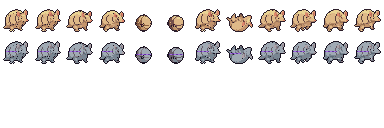
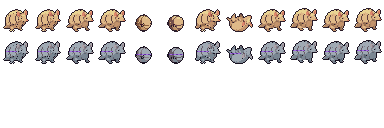
v0.6.3 준비: 콩이 걷기 다시 만듦 — 몸은 한 칸, 발만 딛는다(0241)
- step_cycle을 sprite_ai.py로 옮김(Naïl·콩이 같이 씀, Naïl 시트는 점 하나까지 그대로)
- kongi_ai.py: 걷기 네 칸·두 칸을 걷기 첫 칸의 step_cycle로. 원본 네 칸은 등딱지·머리·눈이 칸마다 달라 꿈틀거렸다
- Cargo 0.6.3, version_code 67, docs/releases/v0.6.3.md, 0241 콩이 절, 홈페이지 소식·스프라이트

Claude-Session: https://claude.ai/code/session_01VNXEyeHwdhsn4oiHYXtNpM

diff --git a/site/index.html b/site/index.html
@@ -66,7 +66,7 @@
           <a class="btn alt" data-pc="linux" href="https://github.com/AimenJoe/nail-under-the-roots/releases/latest/download/nail-linux-release.tar.gz">Linux</a>
         </div>
       </div>
-      <p class="meta">무료 · 설치 없이 · 키보드 · 게임패드 · 터치 · 최신 <b data-latest-version>v0.6.2</b> (<span data-latest-date>2026-10-29</span>)</p>
+      <p class="meta">무료 · 설치 없이 · 키보드 · 게임패드 · 터치 · 최신 <b data-latest-version>v0.6.3</b> (<span data-latest-date>2026-10-29</span>)</p>
     </div>
     <a class="scroll-hint" href="#story">땅속으로 ▼</a>
   </section>
@@ -383,6 +383,7 @@
     <div class="wrap">
       <header class="head"><p class="tag">소식</p><h2>업데이트</h2></header>
       <ul class="news" data-news>
+        <li><span class="v">v0.6.3</span><span class="d">2026-10-29</span><a href="https://github.com/AimenJoe/nail-under-the-roots/releases/tag/v0.6.3">콩이 걷기 다시 만듦(발을 번갈아 딛는다)</a></li>
         <li><span class="v">v0.6.2</span><span class="d">2026-10-29</span><a href="https://github.com/AimenJoe/nail-under-the-roots/releases/tag/v0.6.2">Naïl 걸음 방향 고침(뒷걸음처럼 보이던 것)</a></li>
         <li><span class="v">v0.6.1</span><span class="d">2026-10-29</span><a href="https://github.com/AimenJoe/nail-under-the-roots/releases/tag/v0.6.1">Naïl 걷기 다시 만듦(발을 번갈아 딛는다)</a></li>
         <li><span class="v">v0.6.0</span><span class="d">2026-10-29</span><a href="https://github.com/AimenJoe/nail-under-the-roots/releases/tag/v0.6.0">PC 판(Windows·macOS·Linux), Naïl·콩이·큰 나무 다시 그림</a></li>
@@ -401,6 +402,6 @@
     <p>대화 초상화·컷씬 일러스트·타이틀 바탕은 Google Gemini 이미지 모델(나노바나나)로 그린 원본을 도트로 옮긴 것이다(SynthID 워터마크 포함). 캐릭터·적·소품·마을 물건 스프라이트도 같은 방식으로 받은 원본을 게임 칸으로 옮긴 것이다. 싸움 칸의 클립은 받는 피해만 끈 시험 빌드를 가짜 시계로 한 칸씩 찍은 것이다(소리 없음). 환경 그림: <a href="https://danieldiggle.itch.io/sunnyside">Sunnyside World</a> by danieldiggle. 음악: Cleyton Kauffman · fluffclipse · Kistol · Aureolus_Omicron · Yoiyami · KarateStudios · Juhani Junkala · mutantleg · Umplix · RandomMind · Écrivain, 효과음·환경음: Kenney · Juhani Junkala · artisticdude · Bobjt · themightyglider · qubodup · syncopika · cinameng(모두 CC0). 글꼴: <a href="https://github.com/quiple/galmuri">Galmuri</a> · Ark Pixel · 俐方體11號(SIL OFL 1.1). <a href="https://github.com/AimenJoe/nail-under-the-roots/blob/main/assets/LICENSES.md">출처 전체</a></p>
   </div>
 </footer>
-<script src="site.js?v=bdad418f" defer></script>
+<script src="site.js?v=7230a50f" defer></script>
 </body>
 </html>

diff --git a/site/en/index.html b/site/en/index.html
@@ -65,7 +65,7 @@
           <a class="btn alt" data-pc="linux" href="https://github.com/AimenJoe/nail-under-the-roots/releases/latest/download/nail-linux-release.tar.gz">Linux</a>
         </div>
       </div>
-      <p class="meta">Free · No install · Keyboard · Gamepad · Touch · Latest <b data-latest-version>v0.6.2</b> (<span data-latest-date>2026-10-29</span>)</p>
+      <p class="meta">Free · No install · Keyboard · Gamepad · Touch · Latest <b data-latest-version>v0.6.3</b> (<span data-latest-date>2026-10-29</span>)</p>
     </div>
     <a class="scroll-hint" href="#story">Dig down ▼</a>
   </section>
@@ -382,6 +382,7 @@
     <div class="wrap">
       <header class="head"><p class="tag">News</p><h2>Updates</h2></header>
       <ul class="news" data-news>
+        <li><span class="v">v0.6.3</span><span class="d">2026-10-29</span><a href="https://github.com/AimenJoe/nail-under-the-roots/releases/tag/v0.6.3">Kongi's walk reworked (feet step in turn)</a></li>
         <li><span class="v">v0.6.2</span><span class="d">2026-10-29</span><a href="https://github.com/AimenJoe/nail-under-the-roots/releases/tag/v0.6.2">Naïl no longer moonwalks (walk direction fixed)</a></li>
         <li><span class="v">v0.6.1</span><span class="d">2026-10-29</span><a href="https://github.com/AimenJoe/nail-under-the-roots/releases/tag/v0.6.1">Naïl's walk reworked (his feet now step in turn)</a></li>
         <li><span class="v">v0.6.0</span><span class="d">2026-10-29</span><a href="https://github.com/AimenJoe/nail-under-the-roots/releases/tag/v0.6.0">PC builds (Windows, macOS, Linux), Naïl, Kongi and the Great Tree redrawn</a></li>
@@ -400,6 +401,6 @@
     <p>Dialogue portraits, story illustrations and the title background were drawn with Google's Gemini image model (Nano Banana) and redrawn as pixel art (they carry a SynthID watermark). Character, enemy, prop and village sprites were made the same way and fitted into game cells. The clip in the fight section was captured frame by frame on a fake clock from a test build with incoming damage turned off (no sound). Environment art: <a href="https://danieldiggle.itch.io/sunnyside">Sunnyside World</a> by danieldiggle. Music: Cleyton Kauffman · fluffclipse · Kistol · Aureolus_Omicron · Yoiyami · KarateStudios · Juhani Junkala · mutantleg · Umplix · RandomMind · Écrivain; sound effects and ambience: Kenney · Juhani Junkala · artisticdude · Bobjt · themightyglider · qubodup · syncopika · cinameng (all CC0). Fonts: <a href="https://github.com/quiple/galmuri">Galmuri</a> · Ark Pixel · Cubic 11 (SIL OFL 1.1). <a href="https://github.com/AimenJoe/nail-under-the-roots/blob/main/assets/LICENSES.md">All sources</a></p>
   </div>
 </footer>
-<script src="../site.js?v=bdad418f" defer></script>
+<script src="../site.js?v=7230a50f" defer></script>
 </body>
 </html>

diff --git a/site/site.js b/site/site.js
@@ -113,7 +113,7 @@
   // 첫 화면 아래 걷는 띠(0228 덧붙임): 들를 때마다 이웃 몇이 무작위로 나와 건너가고, 하나가 나가면 다른 이가 들어온다.
   // 칸 크기(c)의 2배로 그린다. f = 한 칸 시간, d = 건너는 시간(도토는 달리고 모모는 깡충, 보리·수수는 느릿느릿).
   const box = document.querySelector("[data-parade]");
-  const SPRITE_V = "53a5a591";   // make_images.py가 sp_*.png 판의 해시를 적는다(캐시 깨기)
+  const SPRITE_V = "c5eb5783";   // make_images.py가 sp_*.png 판의 해시를 적는다(캐시 깨기)
   if (!box || matchMedia("(prefers-reduced-motion: reduce)").matches) return;
   const CAST = [
     { k: "nail", n: 4, c: 28, f: 0.16, d: 26 },

diff --git a/tools/art/nail_ai.py b/tools/art/nail_ai.py
@@ -21,7 +21,7 @@ from PIL import Image
 HERE = Path(__file__).resolve().parent
 sys.path.insert(0, str(HERE))
 import nail as legacy  # noqa: E402  흙더미·그림자 16칸 그림과 털빛 표(FURS)를 같이 쓴다
-from sprite_ai import Source, Spec, convert, is_fur, seat, seat_on_fur  # noqa: E402
+from sprite_ai import Source, Spec, convert, is_fur, seat, seat_on_fur, step_cycle  # noqa: E402
 
 SPRITES = HERE / "sources" / "ai" / "sprites"
 CELL = 28          # 몸 키 약 22px + 뻗은 발톱(0238: 18px는 모모 23·도토 25보다 작아 주인공이 가장 작았다)
@@ -41,7 +41,7 @@ SPEC = Spec(
                 "idle_a": (7, 52, 276, 330),
                 "hurt": (522, 65, 739, 326),
                 "dead": (738, 166, 1001, 331),
-                "walk_a": (20, 413, 238, 686),   # 걷기는 이 한 칸에서 `walk_cycle`로 네 칸(0241)
+                "walk_a": (20, 413, 238, 686),   # 걷기는 이 한 칸에서 `sprite_ai.step_cycle`로 네 칸(0241)
             },
             # 배율은 서 있는 키(머리~발)로: 서기·맞음·쓰러짐은 서기 A, 걷기는 걷기 A(줄마다 그려 온 크기가 조금씩 다르다).
             groups={"idle_a": "idle_a", "hurt": "idle_a", "dead": "idle_a",
@@ -88,60 +88,12 @@ def small(grid_text):
     return cell
 
 
-def walk_cycle(base):
-    """걷기 네 칸을 한 칸(걷기 A)에서 만든다(0241): 디딤 → 지나감(몸 1px 위, 뒷발 듦) → 반대 디딤 → 지나감(앞발 듦).
-
-    원본의 걷기 네 칸은 발이 거의 그대로이고 앞발(손) 자리만 칸마다 튀며 몸이 1~2px 옆으로 흔들려, 22px에서는
-    "미끄러지며 배에 얼룩이 깜박이는" 걸음이 됐다(사장 "걷는 게 어색하다"). 몸은 한 그림 그대로 두고 발만 딛게 한다.
-    발 = 몸 아래 줄(`FOOT` - 1부터)의 덩어리 둘, 왼쪽이 뒷발(오른쪽을 보는 그림).
-    """
-    split = FOOT - 1
-    on = base[..., 3] > 0
-    cols = np.nonzero(on[split:].any(axis=0))[0]
-    gaps = [x for x in range(cols.min(), cols.max()) if not on[split:, x].any()]
-    mid = gaps[len(gaps) // 2] if gaps else (cols.min() + cols.max()) // 2
-    body = base.copy()
-    body[split:] = 0
-    feet = {"back": base.copy(), "front": base.copy()}
-    feet["back"][:split] = 0
-    feet["back"][:, mid:] = 0
-    feet["front"][:split] = 0
-    feet["front"][:, :mid] = 0
-
-    def put(cell, foot, dx=0, dy=0, behind=False):
-        f = np.roll(np.roll(foot, dx, axis=1), dy, axis=0)
-        m = f[..., 3] > 0
-        if behind:
-            m &= cell[..., 3] == 0
-        cell[m] = f[m]
-
-    def frame(bob, back, front):
-        cell = np.zeros_like(base)
-        up = body.copy()
-        if bob:
-            # 배 줄(외곽선 위 둘째 줄)까지 위로 올리고 그 줄을 한 번 더 — 몸이 늘어나 발에 닿는다(밑 외곽선은 두 겹이 되지 않게).
-            k = split - 3
-            up[:k] = body[1:k + 1]
-        cell[...] = up
-        put(cell, feet["back"], *back, behind=True)
-        put(cell, feet["front"], *front)
-        return cell
-
-    # 든 발은 앞으로, 디딘 발은 뒤로 간다(몸 기준). 반대로 들면 뒷걸음처럼 보인다(사장 "뒤로 걷는 느낌", 0241).
-    return [
-        frame(0, (-1, 0), (1, 0)),     # 디딤: 뒷발 뒤, 앞발 앞
-        frame(1, (0, -1), (0, 0)),     # 지나감: 몸이 올라가고 뒷발을 들어 앞으로(앞발은 디딘 채 뒤로)
-        frame(0, (1, 0), (-1, 0)),     # 반대 디딤: 뒷발이 앞에 내려앉고 앞발은 뒤에
-        frame(1, (0, 0), (0, -1)),     # 지나감: 앞발을 들어 앞으로(뒷발은 디딘 채 뒤로)
-    ]
-
-
 def build():
     spr = convert(SPEC)
     idle = seat(spr["idle_a"], CELL, FOOT)
     rows = [
         [idle, seat(spr["idle_b"], CELL, FOOT)]
-        + walk_cycle(seat_on_fur(spr["walk_a"], spr["idle_a"], CELL, FOOT)),
+        + step_cycle(seat_on_fur(spr["walk_a"], spr["idle_a"], CELL, FOOT), FOOT - 1),
         # 동작 칸은 몸통 털의 가운데를 서기 칸에 맞춘다(발톱을 뻗어도 몸이 옆으로 뛰지 않게).
         [seat_on_fur(spr[k], spr["idle_a"], CELL, FOOT)
          for k in ("attack0", "attack1", "attack2", "hurt", "dead", "windup0", "windup1", "windup2", "settle")],

diff --git a/tools/art/sprite_ai.py b/tools/art/sprite_ai.py
@@ -345,6 +345,53 @@ def seat_on_fur(sprite, ref, cell, foot):
     return seat(sprite, cell, foot, dx=round(anchor - ((cell - sprite.shape[1]) // 2 + fur_cx(sprite))))
 
 
+def step_cycle(base, split):
+    """걷기 네 칸을 앉힌 칸 하나에서 만든다(0241): 디딤 → 지나감(몸 1px 위, 뒷발 듦) → 반대 디딤 → 지나감(앞발 듦).
+
+    나노바나나 걷기 네 칸은 발이 거의 그대로이고 칸마다 몸(앞발·등딱지·머리)이 조금씩 달라, 게임 크기에서는
+    미끄러지며 몸이 끓는 걸음이 됐다(사장: Naïl "걷는 게 어색하다", 콩이 "걷는 게 걸린다"). 몸은 한 그림 그대로 두고 발만 딛게 한다.
+    발 = `split` 줄부터 아래의 덩어리 둘(가운데 빈 열로 가름), 왼쪽이 뒷발(오른쪽을 보는 그림).
+    """
+    on = base[..., 3] > 0
+    cols = np.nonzero(on[split:].any(axis=0))[0]
+    gaps = [x for x in range(cols.min(), cols.max()) if not on[split:, x].any()]
+    mid = gaps[len(gaps) // 2] if gaps else (cols.min() + cols.max()) // 2
+    body = base.copy()
+    body[split:] = 0
+    feet = {"back": base.copy(), "front": base.copy()}
+    feet["back"][:split] = 0
+    feet["back"][:, mid:] = 0
+    feet["front"][:split] = 0
+    feet["front"][:, :mid] = 0
+
+    def put(cell, foot, dx=0, dy=0, behind=False):
+        f = np.roll(np.roll(foot, dx, axis=1), dy, axis=0)
+        m = f[..., 3] > 0
+        if behind:
+            m &= cell[..., 3] == 0
+        cell[m] = f[m]
+
+    def frame(bob, back, front):
+        cell = np.zeros_like(base)
+        up = body.copy()
+        if bob:
+            # 배 줄(외곽선 위 둘째 줄)까지 위로 올리고 그 줄을 한 번 더 — 몸이 늘어나 발에 닿는다(밑 외곽선은 두 겹이 되지 않게).
+            k = split - 3
+            up[:k] = body[1:k + 1]
+        cell[...] = up
+        put(cell, feet["back"], *back, behind=True)
+        put(cell, feet["front"], *front)
+        return cell
+
+    # 든 발은 앞으로, 디딘 발은 뒤로 간다(몸 기준). 반대로 들면 뒷걸음처럼 보인다(사장 "뒤로 걷는 느낌", 0241).
+    return [
+        frame(0, (-1, 0), (1, 0)),     # 디딤: 뒷발 뒤, 앞발 앞
+        frame(1, (0, -1), (0, 0)),     # 지나감: 몸이 올라가고 뒷발을 들어 앞으로(앞발은 디딘 채 뒤로)
+        frame(0, (1, 0), (-1, 0)),     # 반대 디딤: 뒷발이 앞에 내려앉고 앞발은 뒤에
+        frame(1, (0, 0), (0, -1)),     # 지나감: 앞발을 들어 앞으로(뒷발은 디딘 채 뒤로)
+    ]
+
+
 def convert(spec):
     """Spec → 이름 → 줄인 RGBA(외곽선 없음, 칸에 앉히기 전)."""
     loaded = []

diff --git a/tools/art/kongi_ai.py b/tools/art/kongi_ai.py
@@ -25,7 +25,7 @@ from PIL import Image
 HERE = Path(__file__).resolve().parent
 sys.path.insert(0, str(HERE))
 import walk_ai  # noqa: E402
-from sprite_ai import OUTLINE, Source, Spec, convert, lum, ramp, seat, sheet4  # noqa: E402
+from sprite_ai import OUTLINE, Source, Spec, convert, lum, ramp, seat, sheet4, step_cycle  # noqa: E402
 
 CELL, FOOT = 32, 30
 SRC = HERE / "sources" / "ai" / "sprites" / "kongi_v2.png"
@@ -217,6 +217,11 @@ def build():
     ink = min(pal, key=lambda c: sum((a - b) ** 2 for a, b in zip(c, BAND_INK)))
     for k in STAND:
         cells[k] = arcs(cells[k], ink)
+    # 걷기는 첫 칸 하나에서 발만 딛게(0241): 원본 네 칸은 등딱지 크기·머리 높이·눈이 칸마다 달라 걸을 때 몸이 끓었다.
+    # 두 칸 걷기(walk_a·b)도 같은 순환의 두 디딤 칸으로.
+    steps = step_cycle(cells[walk_ai.NAMES[0]], FOOT - 2)
+    cells.update(zip(walk_ai.NAMES, steps))
+    cells["walk_a"], cells["walk_b"] = steps[0], steps[2]
     return sheet4([(cells[k], thread(taint(cells[k]))) for k in ORDER])
 
 

diff --git a/docs/decisions/0241-nail-walk-cycle.md b/docs/decisions/0241-nail-walk-cycle.md
@@ -1,7 +1,7 @@
-# 0241. Naïl 걷기: 원본 네 칸 대신 한 칸에서 딛는 네 칸
+# 0241. Naïl·콩이 걷기: 원본 네 칸 대신 한 칸에서 딛는 네 칸
 
 - 날짜: 2026-10-29
-- 상태: **구현**(v0.6.1, 방향 고침 v0.6.2). 사장: "바뀐 나일이 걷는 게 좀 어색하네. 수정하고 배포하자."
+- 상태: **구현**(Naïl v0.6.1, 방향 고침 v0.6.2, 콩이 v0.6.3). 사장: "바뀐 나일이 걷는 게 좀 어색하네. 수정하고 배포하자."
 
 ## 왜 어색했나
 0238의 걷기 네 칸은 나노바나나 시트 A 줄 2를 그대로 옮겼다. 원본 네 칸은 **발이 거의 같고**(22px로 줄이면 1px 남짓 차이), **앞발(손)만 칸마다 다른 자리**에 그려져 있었다. 게임 크기에서는
@@ -9,7 +9,7 @@
 - 배 위의 밝은 앞발 덩어리가 0.1초마다 이리저리 깜박이고,
 - 칸마다 몸 윤곽이 1~2px 옆으로 흔들렸다(그린 크기·자리가 조금씩 달라서).
 
-## 바꾼 것(`tools/art/nail_ai.py walk_cycle`)
+## 바꾼 것(`tools/art/sprite_ai.py step_cycle`, 처음엔 `nail_ai.py`에 있었다)
 - 몸은 **걷기 첫 칸 하나** 그대로. 발(몸 아래 줄의 덩어리 둘, 왼쪽 = 뒷발)만 움직인다.
 - 네 칸 = 디딤(뒷발 뒤·앞발 앞) → 지나감(몸 1px 위·뒷발 듦) → 반대 디딤(뒷발 앞·앞발 뒤) → 지나감(앞발 듦). 몸을 올릴 때는 배 줄을 한 줄 늘여 발에 닿게(밑 외곽선은 한 겹).
 - 게임 코드는 그대로(같은 칸 2~5, 초당 10칸). 털빛 셋도 같은 시트에서 다시 만든다. `check_rebuild.py`로 재현 확인.
@@ -21,3 +21,7 @@
 
 ## 고침(v0.6.2): 뒷걸음
 v0.6.1은 지나감 칸에서 **앞발을 든 채 뒤로** 옮겼다(디딤 +1 → 들고 0 → 내려 -1). 사장: "뒤로 걷는 느낌". 걷는 다리는 **든 발이 앞으로, 디딘 발이 몸 기준 뒤로** 간다(땅에 붙은 발은 몸이 앞으로 가는 만큼 뒤로 밀린다). 디딤 → 반대 디딤 사이에 앞으로 가는 발(+1로 갈 발)을 들어야 한다 — 디딤 다음은 뒷발, 반대 디딤 다음은 앞발.
+
+## 콩이(v0.6.3)
+사장: "콩이 걷는 게 걸리네". 콩이 걷기 네 칸(`kongi_v2.png` 아랫줄)은 발보다 **몸이 칸마다 달랐다** — 등딱지 크기·머리 높이·눈 유무. 같은 `step_cycle`(발 = 몸 아래 `FOOT - 2`줄부터 덩어리 둘)을 걷기 첫 칸에 쓰고, 두 칸 걷기(`walk_a`·`walk_b`)도 그 순환의 두 디딤 칸으로 맞췄다. 물든 콩이는 칸마다 색을 바꾸므로 같이 바뀐다. 게임 코드는 그대로(`BigSheet::walk4` 8~11).
+- 다른 이웃(포포·보리·수수·토끼풀)과 모모·도토의 걷기는 따로 받은 걷기 시트(0229)라 그대로 둔다. 같은 증상이 보이면 같은 함수로.

diff --git a/docs/phase-1-combat-prototype.md b/docs/phase-1-combat-prototype.md
@@ -173,7 +173,7 @@
 - [x] 설정 창 정렬(0239, 사장 "아래 세 줄 들여쓰기 필요 없다"): 모든 줄 같은 왼쪽 선, 묶음 셋(값·다른 화면 →·기록 지우기 붉은 글) 사이 가는 선, 돌아가기 줄 빼고 안내 띠에 "{뒤로} 닫기", ▲▼는 제목 줄로
 - [x] Naïl·콩이·큰 나무 다시 그리기(0238, 사장 고름 Naïl 1·콩이 3): Naïl 28칸·키 22px, 콩이 키 22px, 큰 나무 `tree.png` 잎 단계 다섯 칸(시든 줄기 + 잎 덩어리). 사장 확인: 걷기·물든 콩이 얼굴·나무 단계. 남음: 파 내려가기·초상화 속 Naïl
 - [x] PC 빌드(0240): Windows·macOS(겸용 .app, 임시 서명)·Linux, 타이틀 끝내기·설정 전체 화면(F11). **v0.6.0 배포(2026-10-29, 사장 결정)** — 0232 나머지는 v0.6.x. 사장 확인: Windows PC·Mac에서 켜기(경고 넘기기)·패드·전체 화면
-- [x] Naïl 걷기(0241): 원본 걷기 네 칸이 발은 그대로·앞발만 깜박여 미끄러지듯 → 한 칸에서 발을 번갈아 딛는 네 칸 + 1px 들썩임. 홈페이지 첫 화면 버튼 두 줄(브라우저·Android·iOS 자리 / Windows·macOS·Linux). **v0.6.1 배포(2026-10-29, 사장 결정)** → 뒷걸음처럼 보여(든 발이 뒤로) v0.6.2에서 고침. 사장 확인: 걸음이 자연스러운지
+- [x] Naïl 걷기(0241): 원본 걷기 네 칸이 발은 그대로·앞발만 깜박여 미끄러지듯 → 한 칸에서 발을 번갈아 딛는 네 칸 + 1px 들썩임. 홈페이지 첫 화면 버튼 두 줄(브라우저·Android·iOS 자리 / Windows·macOS·Linux). **v0.6.1 배포(2026-10-29, 사장 결정)** → 뒷걸음처럼 보여(든 발이 뒤로) v0.6.2에서 고침. 콩이 걷기도 같은 방식(v0.6.3, 몸이 칸마다 달라 꿈틀거림). 사장 확인: 걸음이 자연스러운지
 - [ ] 귀·손으로 확인(사장, v0.5.5): 음악·환경음·효과음 크기 균형, 발소리가 거슬리는지, "고리 ?" 곡의 이음매, 보스 2단계 곡 넘김과 세기(`tuning::BOSS_P2_*`), 핸드헬드 메모리·멈칫(긴 곡 175초 ≈ 61MB)
 - [x] Android → 정식 계정 $25. iOS → TestFlight까지. Steam 페이지·Next Fest 시기 → v0.6 뒤 결정
 - [ ] 그림 받기(사장): 마을·쉼터 C 꾸미기 열하나 → D 아기 굴토끼(0224, `docs/art/hub-sprite-prompts.md`). B 큰 나무는 0238에서 끝(두 장 → 단계 다섯)

diff --git a/docs/releases/v0.6.3.md b/docs/releases/v0.6.3.md
@@ -1,0 +1,19 @@
+# Naïl: Under the Roots v0.6.3 — 콩이도 발을 딛고 걷는다
+
+## 바뀐 것
+- **콩이 걷기를 다시 만들었다**: 새 그림의 걷기 네 칸은 칸마다 등딱지 크기·머리 높이·눈이 조금씩 달라, 걸을 때 몸이 꿈틀거리듯 보였다. 이제 몸은 그대로이고 발을 번갈아 딛으며 한 걸음마다 살짝 들썩인다(마을의 콩이·물든 콩이 모두). Naïl 걷기(v0.6.1~0.6.2)와 같은 방식.
+
+## 해 보기
+- **웹**: https://nail-under-the-roots.netlify.app
+- **Android**: 아래 `nail.apk`. 덮어 설치하면 기록이 남는다.
+- **Windows**: `nail-windows-release.zip` → `Nail.exe`. 서명 전이라 처음에 "Windows의 PC 보호" 창이 뜨면 "추가 정보 → 실행".
+- **macOS**(11 이상, 인텔·애플 실리콘): `nail-macos-release.zip` → `Nail.app`. 처음 열 때 막히면 "시스템 설정 → 개인정보 보호 및 보안 → 그래도 열기".
+- **Linux**(x64): `nail-linux-release.tar.gz` → `nail`.
+
+## 출처
+- 캐릭터·적·소품·마을 물건 스프라이트, 대화 초상화, 컷씬 일러스트, 타이틀 바탕: Google Gemini 이미지 모델(나노바나나)로 그린 원본을 게임 도트로 옮김(Naïl·콩이 걷기 네 칸은 원본 한 칸에서 발만 코드로 움직였다). 생성 그림에는 SynthID 워터마크가 들어 있다. 파 내려가기 그림은 직접 그렸다.
+- 음악·효과음(모두 CC0)·타일·글꼴은 v0.6.0과 같다 — 게임 설정 → 라이선스, `assets/LICENSES.md`.
+
+---
+
+**English (short)**: Kongi's walk is reworked the same way as Naïl's — the body no longer wobbles from frame to frame; his feet step in turn with a small bob (village and tainted Kongi).
